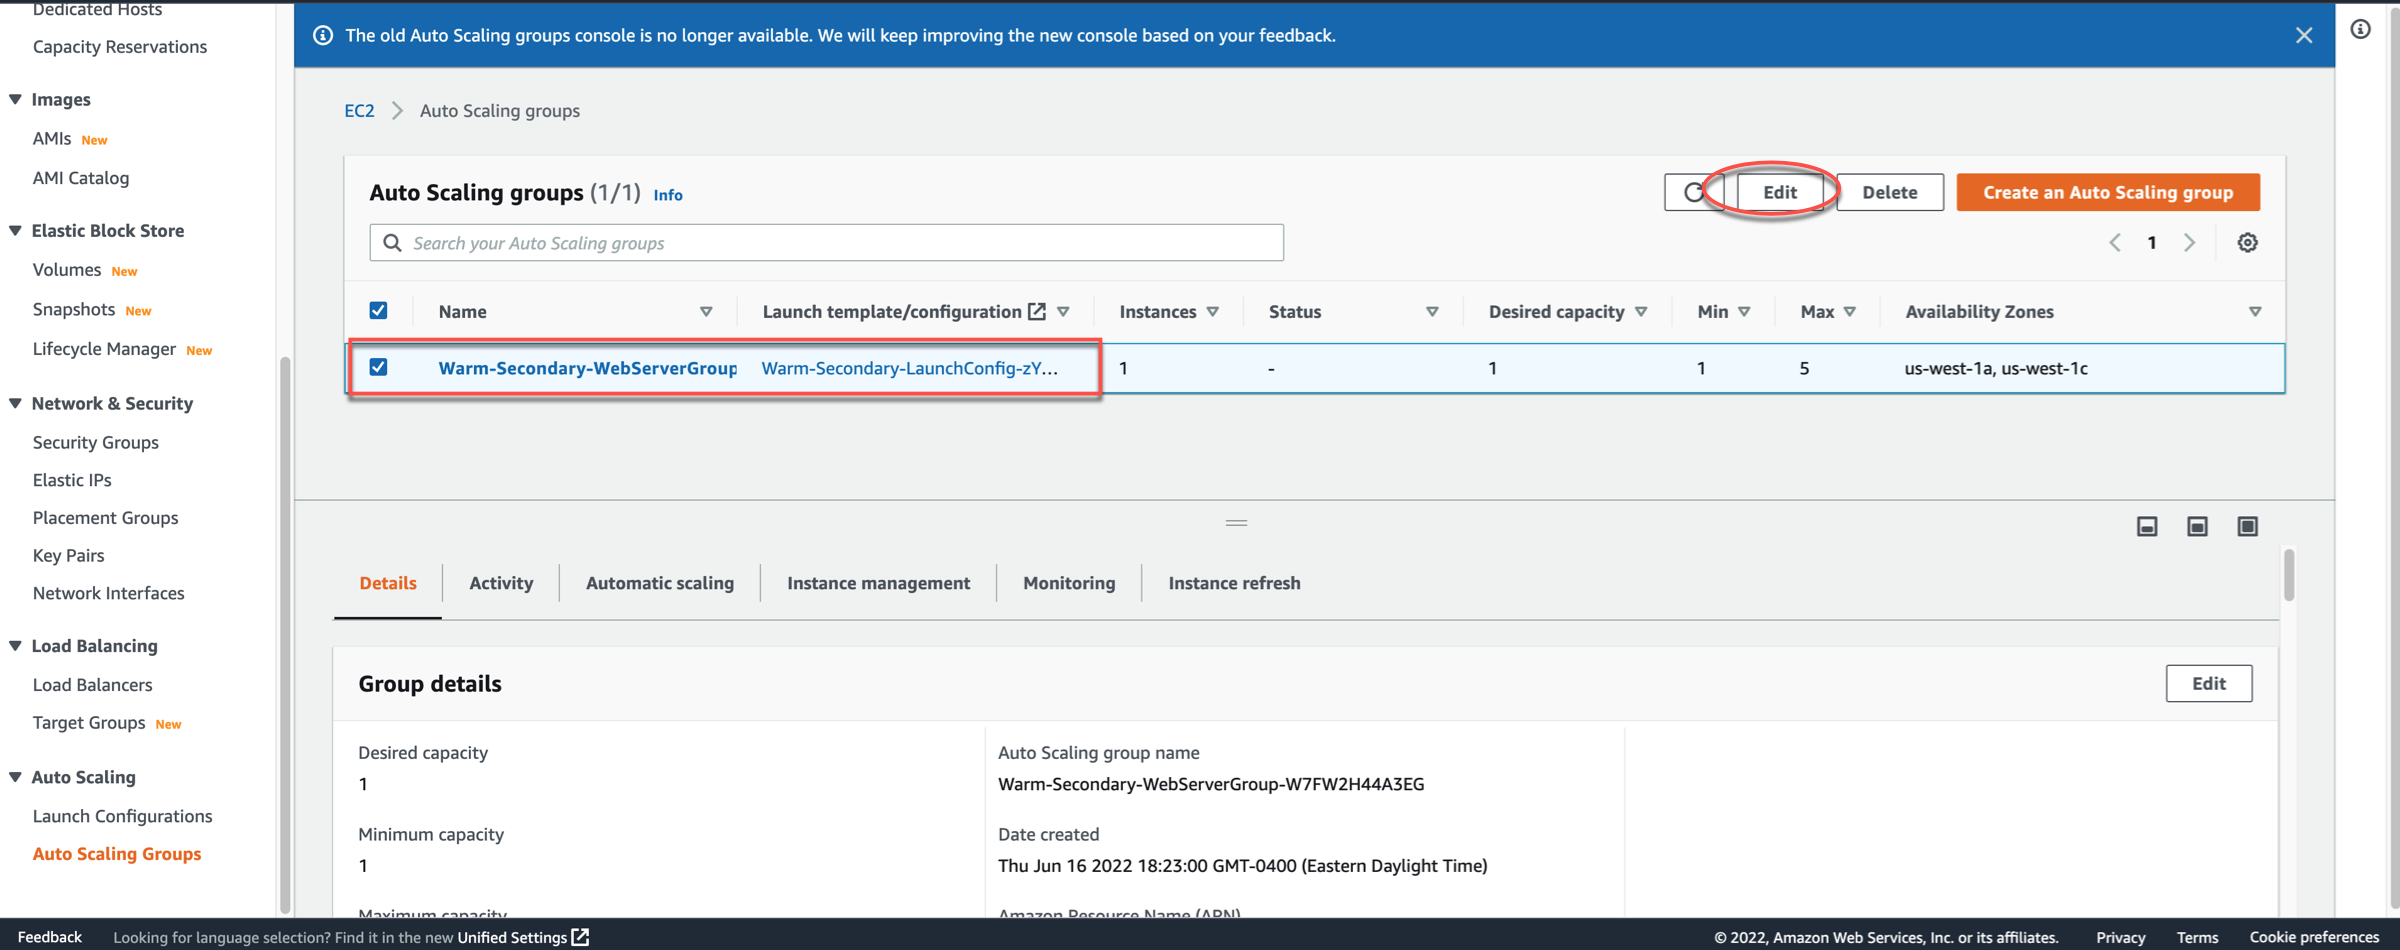
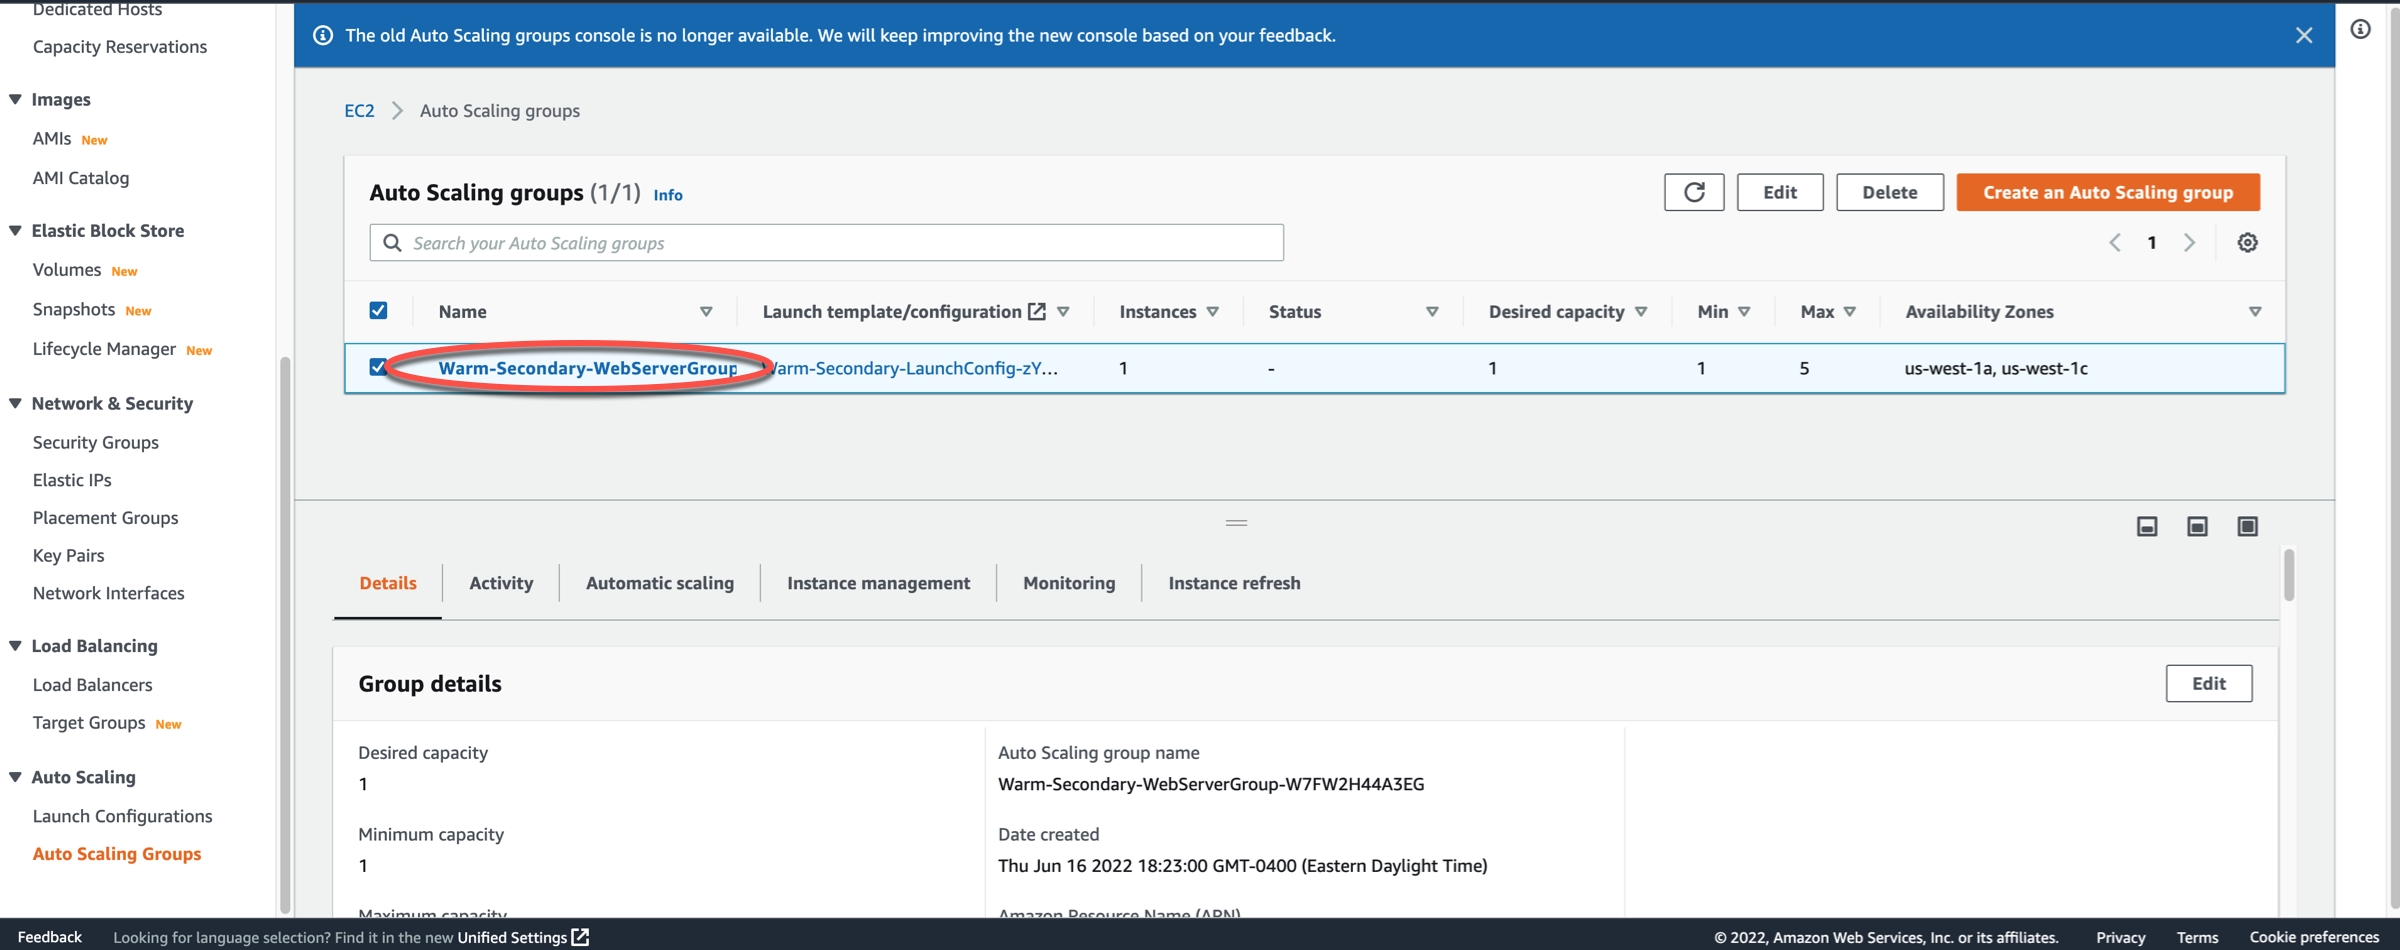
Fix ASG for Workshop 3

Changed region(s): [[0.125, 0.3358, 0.4688, 0.4274], [0.7188, 0.1526, 0.7812, 0.2442], [0.6875, 0.1832, 0.7188, 0.2137]]

diff --git a/content/Reliability/Disaster Recovery/Workshop_3/3-failover/3.2-ec2/_index.en.md b/content/Reliability/Disaster Recovery/Workshop_3/3-failover/3.2-ec2/_index.en.md
@@ -24,21 +24,17 @@ weight = 2
 
 {{< img da-5.png >}}
 
-#### Update Auto Scaling Group (ASG)
+#### Auto Scaling Group (ASG)
 
-We now want to scale out our compute capacity to match that of our primary region.  This way we know when we fail over, our secondary region can handle the request traffic.
+The update to the CloudFormation template was to change the Auto Scaling Group in the secondary region **N. California (us-west-1)** to **scale out** our EC2 capacity to match our primary region **N. Virginia (us-east-1)**. This way we know when we fail over, our secondary region can handle the request traffic.
 
 2.1 Navigate to [Auto Scaling Groups](https://us-west-1.console.aws.amazon.com/ec2/v2/home?region=us-west-1#AutoScalingGroups:) in **N. California (us-west-1)** region.
 
-2.2 Select **warm-secondary-WebServerGroup-xxx**, then click the **Edit** button.
+2.2 Click on the **warm-secondary-WebServerGroup-xxx** link.
 
 {{< img asg-1.png >}}
 
-2.3 In the **Group size** section, increase the **Desired capacity** to **3**, then scroll to the bottom and click the **Update** button.
-
-{{< img asg-2.png >}}
-
-2.4 Click the **Activity** link, then scroll down to the **Activity History** section.  You should see new instances launching in response to your update desired quantity request.
+2.3 Click the **Activity** link, then scroll down to the **Activity History** section.  You should see new instances launching in response to your CloudFormation update.
 
 {{< img asg-3.png >}}
 
